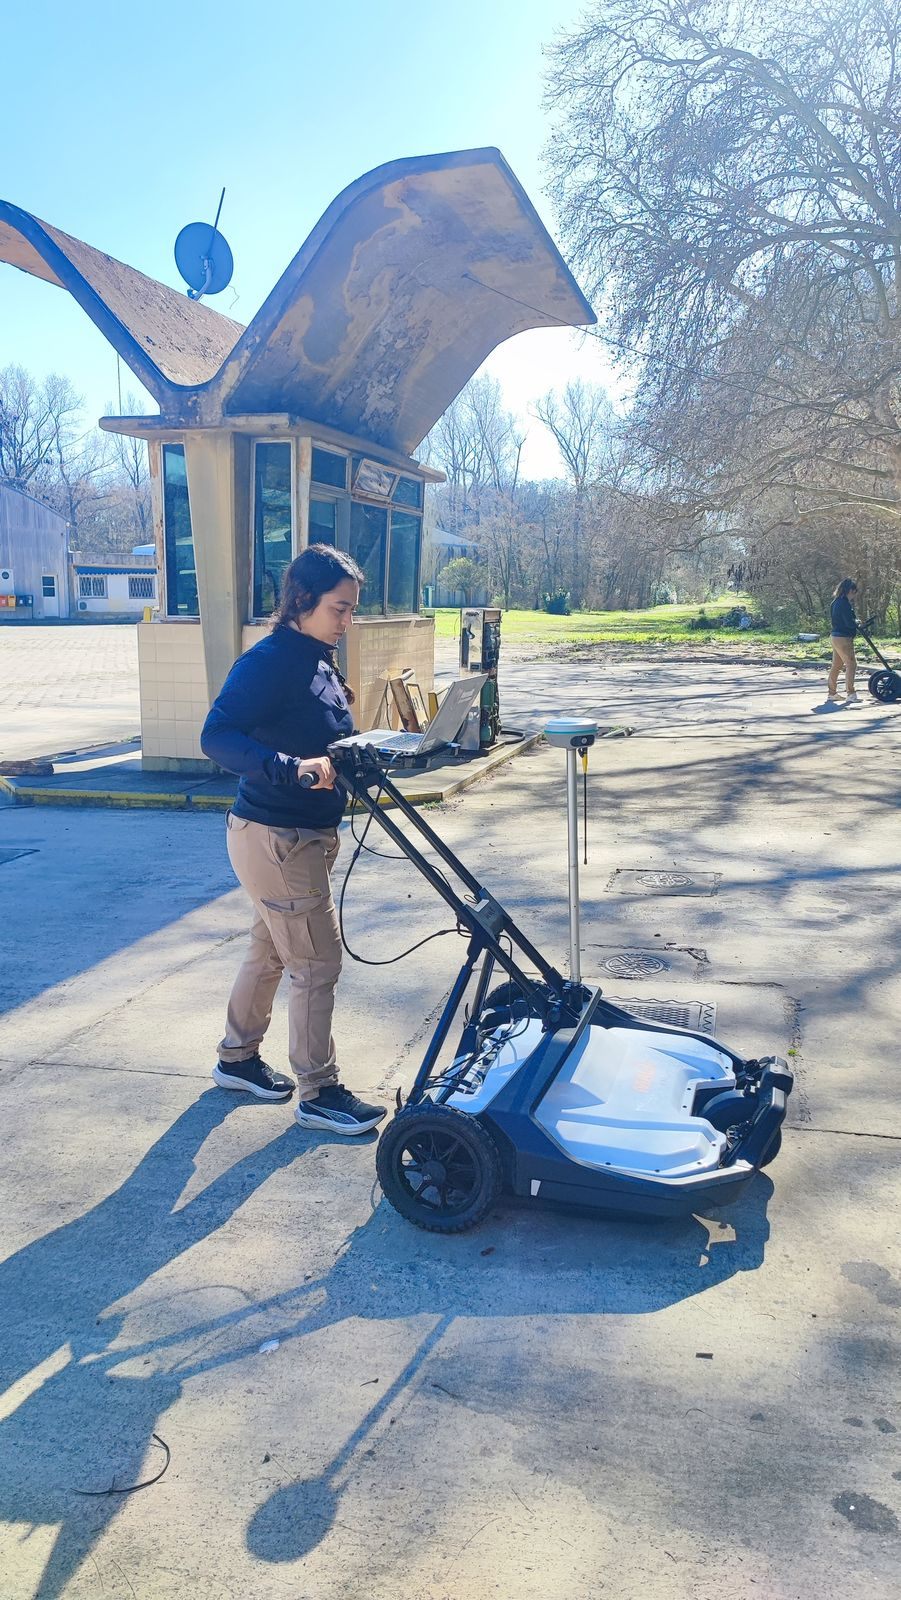
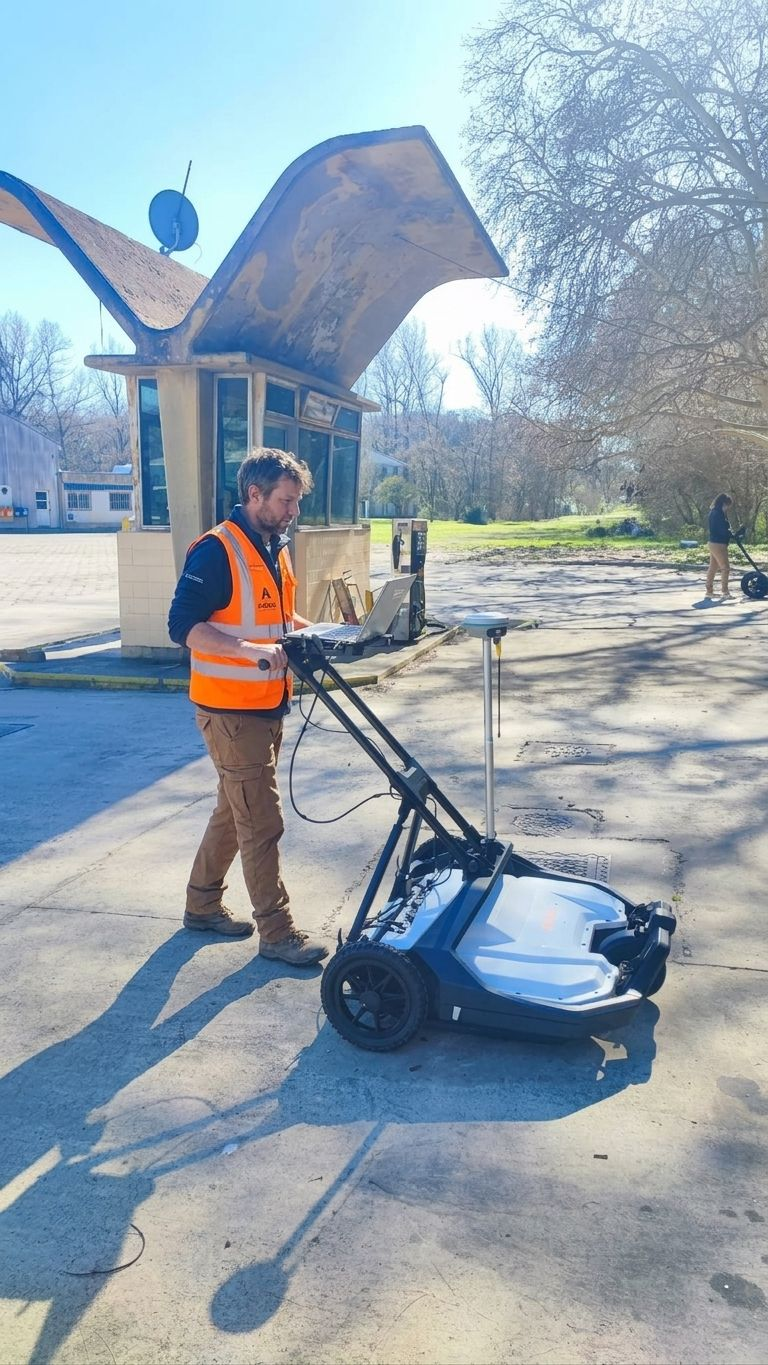
Reemplazar foto de georradar

diff --git a/index.html b/index.html
@@ -512,7 +512,7 @@ footer nav a{color:var(--muted);font-size:.88rem}
             <div><dt><h4>Apoyo a obras civiles</h4></dt><dd>Relevamientos previos a excavaciones para minimizar riesgos de interferencia.</dd></div>
           </dl>
         </div>
-        <div class="svc-media"><img src="img/georradar.jpg" alt="Técnica de ARGEOS realizando un relevamiento con georradar sobre ruedas" loading="lazy" width="901" height="1600"></div>
+        <div class="svc-media"><img src="img/georradar.jpg" alt="Técnico de ARGEOS realizando un relevamiento con georradar sobre ruedas" loading="lazy" width="768" height="1365"></div>
       </article>
 
       <article class="svc" id="tomografia">
